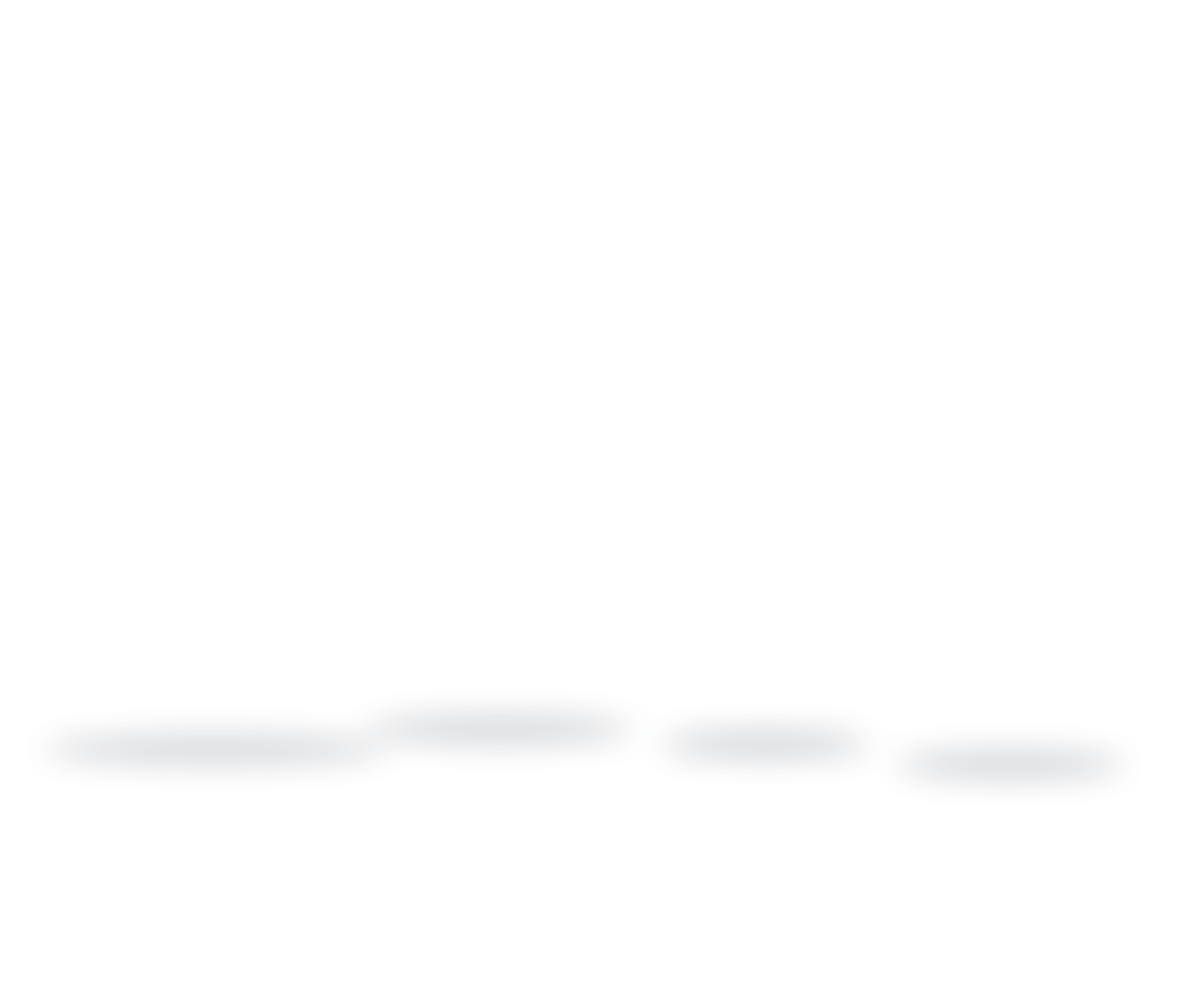
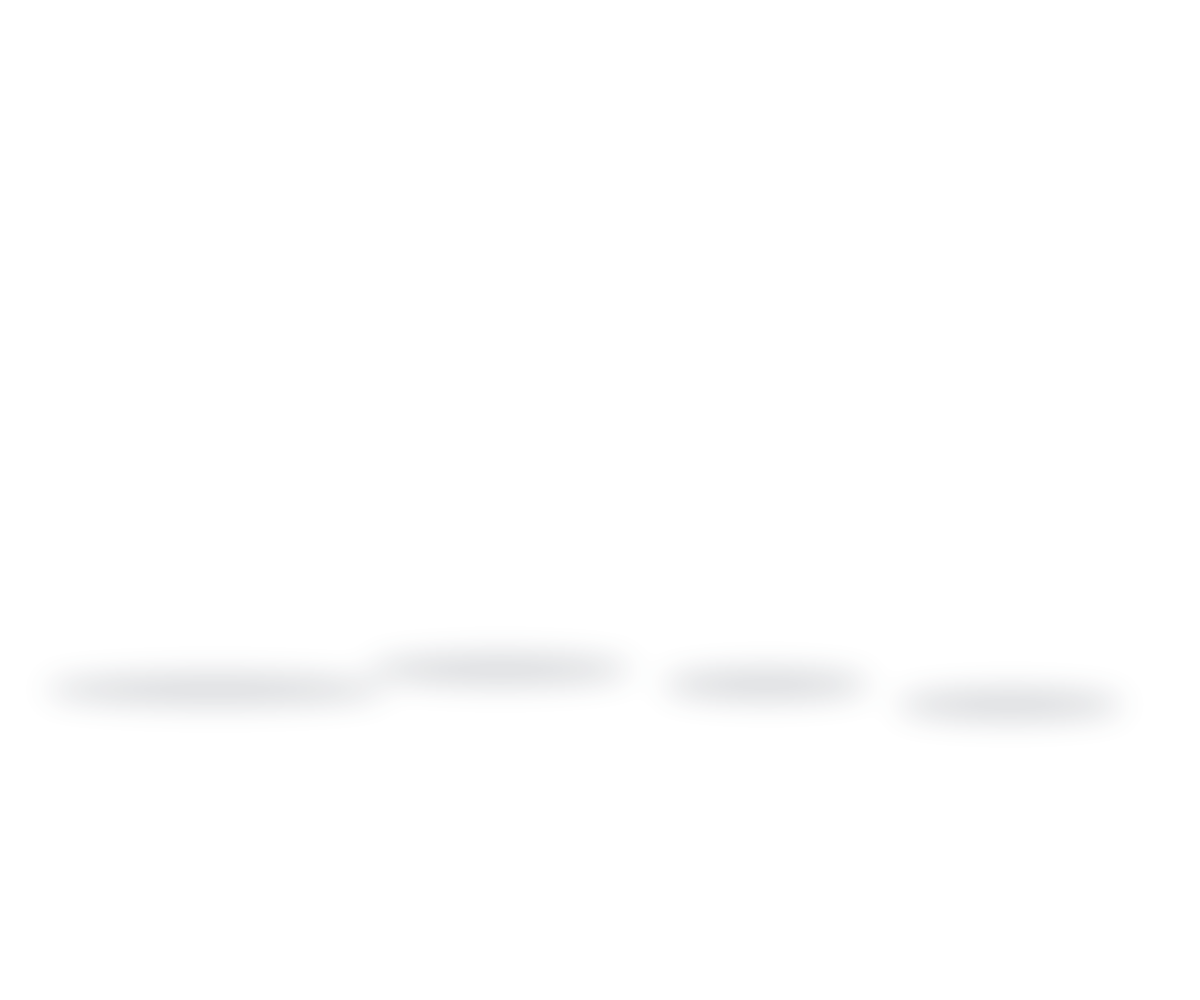
Portada: subir productos para que la nota flotante no tape el percarbonato
Claude-Session: https://claude.ai/code/session_01DmXgumRVV7hmrhJ9XBDNhq

diff --git a/canva/portada-inicio/portada-canva.html b/canva/portada-inicio/portada-canva.html
@@ -3,5 +3,5 @@
 img{position:absolute;display:block}</style></head><body>
 <img src="fondo.png" style="left:0;top:0;width:1200px;height:1000px" alt="fondo">
 <img src="sombras.png" style="left:0;top:0;width:1200px;height:1000px" alt="sombras">
-<img src="percarbonato.png" style="left:32px;top:450px;width:365px;height:300px" alt="percarbonato"><img src="vinagre.png" style="left:357px;top:130px;width:286px;height:600px" alt="vinagre"><img src="cafe.png" style="left:650px;top:315px;width:231px;height:430px" alt="cafe"><img src="bicarbonato.png" style="left:884px;top:405px;width:251px;height:360px" alt="bicarbonato">
+<img src="percarbonato.png" style="left:32px;top:390px;width:365px;height:300px" alt="percarbonato"><img src="vinagre.png" style="left:357px;top:70px;width:286px;height:600px" alt="vinagre"><img src="cafe.png" style="left:650px;top:255px;width:231px;height:430px" alt="cafe"><img src="bicarbonato.png" style="left:884px;top:345px;width:251px;height:360px" alt="bicarbonato">
 </body></html>
